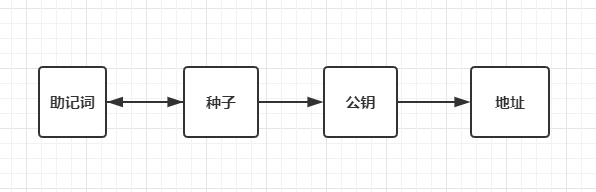
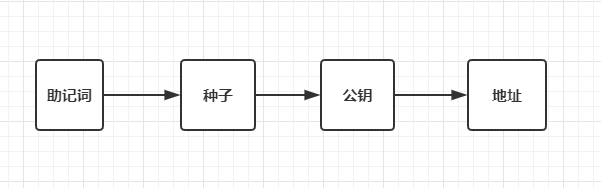
modify hd

Changed region(s): [[0.0, 0.2926, 1.0, 0.7447], [0.0, 0.9574, 1.0, 0.984], [0.0, 0.0, 1.0, 0.0266]]

diff --git a/categories/hd-wallet-系列/index.html b/categories/hd-wallet-系列/index.html
@@ -93,7 +93,7 @@
                             <div class="post-content">
                                 分层确定性钱包，可以从一个种子派生出一系列密钥对用于生成地址，便于钱包的备份与管理
  助记词、种子、公钥、地址之间的关系如下：
- 助记词与种子之间可以双向转换 种子公钥与地址之间只能单向  主要涉及到的bip协议：
+ 助记词与种子公钥与地址之间只能单向推导  主要涉及到的bip协议：
  bip32 hd 钱包核心提案，定义分层概念和算法……
                                 <p class="readmore"><a href="http://www.tpkeep.com/blog/hd-wallet-overview/">阅读全文</a></p>
                             </div>

diff --git a/tags/hd-wallet/index.html b/tags/hd-wallet/index.html
@@ -93,7 +93,7 @@
                             <div class="post-content">
                                 分层确定性钱包，可以从一个种子派生出一系列密钥对用于生成地址，便于钱包的备份与管理
  助记词、种子、公钥、地址之间的关系如下：
- 助记词与种子之间可以双向转换 种子公钥与地址之间只能单向  主要涉及到的bip协议：
+ 助记词与种子公钥与地址之间只能单向推导  主要涉及到的bip协议：
  bip32 hd 钱包核心提案，定义分层概念和算法……
                                 <p class="readmore"><a href="http://www.tpkeep.com/blog/hd-wallet-overview/">阅读全文</a></p>
                             </div>

diff --git a/index.html b/index.html
@@ -83,7 +83,7 @@
                             <div class="post-content">
                                 分层确定性钱包，可以从一个种子派生出一系列密钥对用于生成地址，便于钱包的备份与管理
  助记词、种子、公钥、地址之间的关系如下：
- 助记词与种子之间可以双向转换 种子公钥与地址之间只能单向  主要涉及到的bip协议：
+ 助记词与种子公钥与地址之间只能单向推导  主要涉及到的bip协议：
  bip32 hd 钱包核心提案，定义分层概念和算法……
                             </div>
                             <p class="readmore"><a href="http://www.tpkeep.com/blog/hd-wallet-overview/">阅读全文</a></p>

diff --git a/blog/hd-wallet-overview/index.html b/blog/hd-wallet-overview/index.html
@@ -99,8 +99,7 @@
 <p><strong>助记词、种子、公钥、地址之间的关系如下：</strong></p>
 
 <ul>
-<li>助记词与种子之间可以双向转换</li>
-<li>种子公钥与地址之间只能单向</li>
+<li>助记词与种子公钥与地址之间只能单向推导</li>
 </ul>
 
 <p><img src="/image/seed-addr-rlt.png" alt="seed-addr-rlt.png" /></p>
